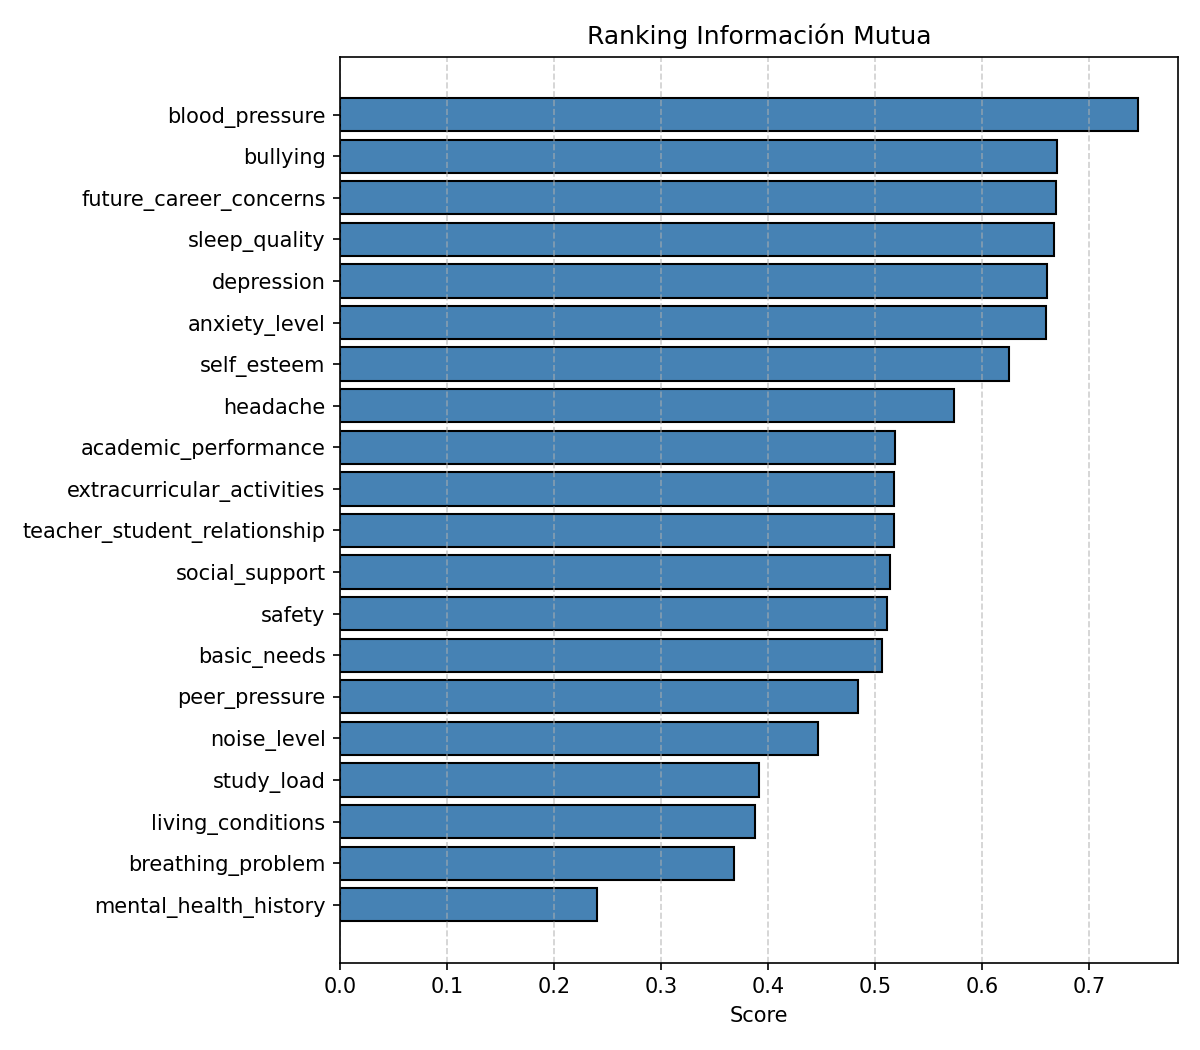
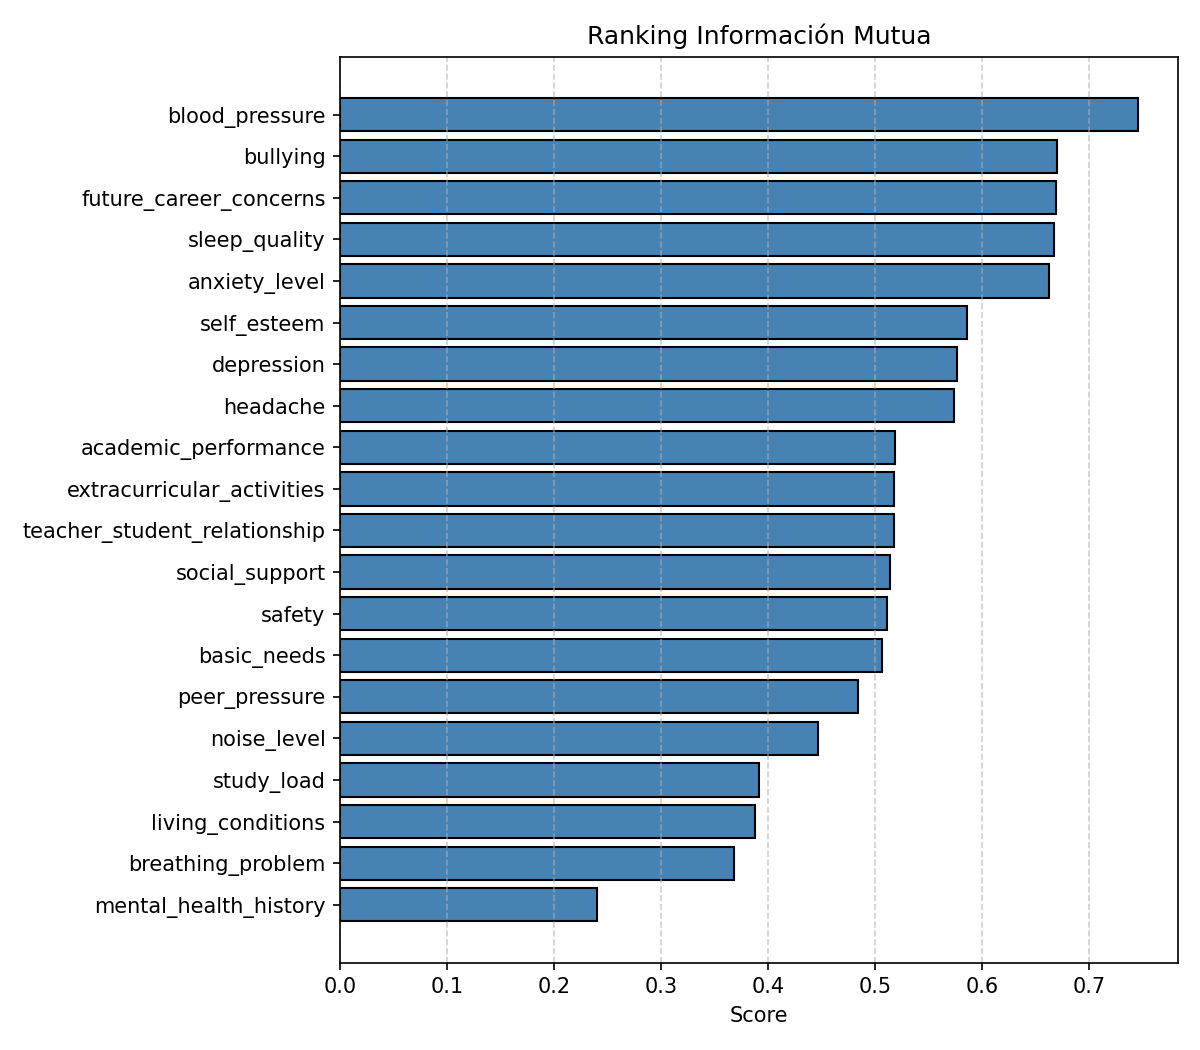
preprocess data StressLevelDataset.py

Changed region(s): [[0.1542, 0.2438, 0.2775, 0.3657], [0.7708, 0.2743, 0.8942, 0.3657]]

diff --git a/StressLevelDataset/fase3.py b/StressLevelDataset/fase3.py
@@ -1,5 +1,5 @@
+import pandas as pd
 from plantilla import (
-    cargar_dataset,
     dividir_train_test,
     entrenar_y_evaluar,
     graficar_matriz_confusion,
@@ -12,39 +12,79 @@ from plantilla import (
 from sklearn.naive_bayes import GaussianNB
 from sklearn.tree import DecisionTreeClassifier
 
-# 1. Cargar datos
-X, y = cargar_dataset("./datasets/StressLevelDataset.csv", columna_target="stress_level")
+def preprocesar_datos(df):
+    """
+    Aplica el preprocesamiento de las fases anteriores:
+    1. Limpieza de nulos.
+    2. Discretización de variables clave (Anxiety, Self-esteem, Depression).
+    """
+    df_limpio = df.copy()
+    
+    # 1. Limpieza básica
+    df_limpio = df_limpio.dropna()
+    
+    # 2. Discretización por frecuencia (qcut) como en la Fase 2
+    # Esto convierte los rangos numéricos en niveles 0, 1, 2 (Bajo, Medio, Alto)
+    cols_a_discretizar = ['anxiety_level', 'self_esteem', 'depression']
+    for col in cols_a_discretizar:
+        if col in df_limpio.columns:
+            # labels=False devuelve 0, 1, 2 directamente
+            df_limpio[col] = pd.qcut(df_limpio[col], q=3, labels=False, duplicates='drop')
+    
+    # 3. Asegurar que todos los datos sean numéricos para los clasificadores
+    return df_limpio.apply(pd.to_numeric)
 
-# Lista para guardar todas las métricas y compararlas al final
+# --- INICIO DEL SCRIPT ---
+
+# 1. Cargar datos crudos
+ruta_csv = "./datasets/StressLevelDataset.csv"
+df_raw = pd.read_csv(ruta_csv)
+
+# 2. Aplicar preprocesamiento de fases anteriores
+df_listo = preprocesar_datos(df_raw)
+
+# 3. Separar X e y
+target = "stress_level"
+X = df_listo.drop(columns=[target])
+y = df_listo[target]
+
+# Lista para guardar todas las métricas
 todas_las_metricas = []
 
-print("\n--- ACTIVIDAD 1: TODAS LAS CARACTERÍSTICAS ---")
+# ---------------------------------------------------------
+# ACTIVIDAD 1: TODAS LAS CARACTERÍSTICAS
+# ---------------------------------------------------------
+print("\n--- EJECUTANDO ACTIVIDAD 1: TODAS LAS CARACTERÍSTICAS ---")
 
-# Dividir 70/30 
 X_train, X_test, y_train, y_test = dividir_train_test(X, y)
 
 # Entrenar Bayes
-modelo_nb_full = GaussianNB()
-m_nb_full, _ = entrenar_y_evaluar(modelo_nb_full, "Bayes_Todas", X_train, X_test, y_train, y_test)
+m_nb_full, _ = entrenar_y_evaluar(GaussianNB(), "Bayes_Todas", X_train, X_test, y_train, y_test)
+imprimir_resultado(m_nb_full)
 todas_las_metricas.append(m_nb_full)
 
 # Entrenar Árbol
-modelo_tree_full = DecisionTreeClassifier(random_state=42)
-m_tree_full, _ = entrenar_y_evaluar(modelo_tree_full, "Arbol_Todas", X_train, X_test, y_train, y_test)
+m_tree_full, _ = entrenar_y_evaluar(DecisionTreeClassifier(random_state=42), "Arbol_Todas", X_train, X_test, y_train, y_test)
+imprimir_resultado(m_tree_full)
 todas_las_metricas.append(m_tree_full)
 
 # Guardar matrices de confusión
 graficar_matriz_confusion(m_nb_full['matriz_confusion'], "Bayes Todas", ruta_resultado("cm_nb_todas.png"))
 graficar_matriz_confusion(m_tree_full['matriz_confusion'], "Arbol Todas", ruta_resultado("cm_tree_todas.png"))
 
+
+# ---------------------------------------------------------
+# ACTIVIDAD 2: MEJORES CARACTERÍSTICAS (INFO MUTUA)
+# ---------------------------------------------------------
 print("\n--- EJECUTANDO ACTIVIDAD 2: MEJORES CARACTERÍSTICAS (INFO MUTUA) ---")
 
-# 1. Calcular Ranking
+# 1. Calcular Ranking sobre los datos preprocesados
 ranking_im = ranking_informacion_mutua(X, y)
 graficar_ranking(ranking_im, "Ranking Información Mutua", ruta_resultado("ranking_im.png"))
 
-# 2. Seleccionar las mejores (ejemplo: las top 5)
+# 2. Seleccionar las mejores (Top 5 según el ranking)
 mejores_features = ranking_im.head(5).index.tolist()
+print(f"Mejores características seleccionadas: {mejores_features}")
 X_top = X[mejores_features]
 
 # 3. Dividir y entrenar con el subconjunto
@@ -52,16 +92,22 @@ X_train_top, X_test_top, y_train_top, y_test_top = dividir_train_test(X_top, y)
 
 # Bayes con top features
 m_nb_top, _ = entrenar_y_evaluar(GaussianNB(), "Bayes_Top_IM", X_train_top, X_test_top, y_train_top, y_test_top)
+imprimir_resultado(m_nb_top)
 todas_las_metricas.append(m_nb_top)
 
 # Árbol con top features
 m_tree_top, _ = entrenar_y_evaluar(DecisionTreeClassifier(random_state=42), "Arbol_Top_IM", X_train_top, X_test_top, y_train_top, y_test_top)
+imprimir_resultado(m_tree_top)
 todas_las_metricas.append(m_tree_top)
 
 # Guardar matrices
 graficar_matriz_confusion(m_nb_top['matriz_confusion'], "Bayes Top IM", ruta_resultado("cm_nb_top.png"))
+graficar_matriz_confusion(m_tree_top['matriz_confusion'], "Arbol Top IM", ruta_resultado("cm_tree_top.png"))
 
-# Guardar resumen final en CSV
-guardar_resultados(todas_las_metricas, ruta_resultado("comparativa_estres.csv"))
+# ---------------------------------------------------------
+# FINALIZACIÓN
+# ---------------------------------------------------------
+# Guardar resumen final en CSV para la comparativa de la presentación
+guardar_resultados(todas_las_metricas, ruta_resultado("comparativa_estres_fase3.csv"))
 
-print("\n¡Proceso completado!")
+print(f"\n¡Proceso completado! Los resultados están en la carpeta: {ruta_resultado('')}")
